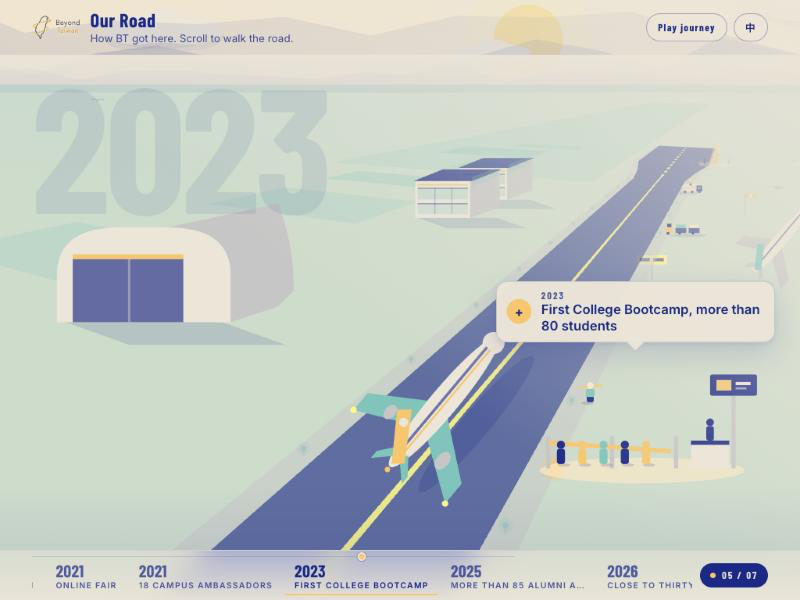
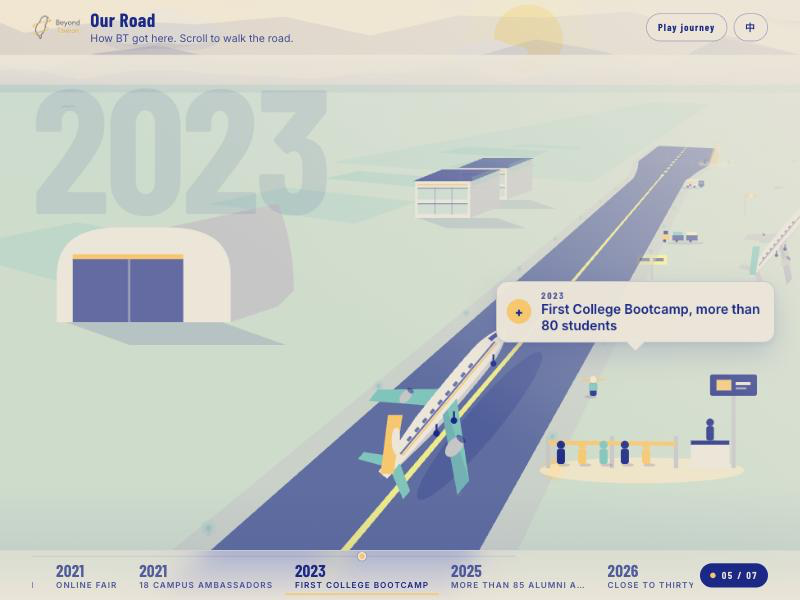
docs: 歷史之路批 4 第二輪收尾。README 補「同一天第二輪」、計畫文件補三件打勾、重拍 page-17、18、19、22

diff --git a/docs/2026-11-05-BT-歷史之路計畫.md b/docs/2026-11-05-BT-歷史之路計畫.md
@@ -233,3 +233,10 @@ Paul 看完批 3 說還不錯，接著要把主題換成機場，因為它跟 BT
   | `/history/` 批 4 | 82 / 86 | 100 | 3540ms / 1804ms | 3713ms / 3792ms | 左上的大年份 | 810ms / 66ms | 1929ms / 543ms | 0.001 | 305KB |
 
   模擬的 LCP 跟批 3（3683 / 3702）一樣，原因同批 3 最下面那一段。LCP 元素變成大年份是因為批 3 收尾把它改回文字（Paul 接受）。第一輪觀測偏高是 Chrome 冷開。SVG 字串橫式 66,188、直式 58,751（七站），上限 70 KB。
+
+Paul 看過批 4 之後要修的三件（2026-11-06，同一天第二輪）：
+- [x] 飛機看起來像衝浪板：重畫成客機（圓機頭、收細的尾錐、一排窗、駕駛艙窗、後掠的機翼、翼下兩具引擎、水平尾翼、橘色垂直尾翼帶一片奶油色的台灣、起落架在地上看得到、離地就收），影子是分開的貼圖，離地後留在地上縮小變淡。停機坪的四分之三視角、爬升的視角、手機都看過。測試「飛機（批 4 修正）」照零件的 class 數。順手抓到一個會讓尾翼變黑的錯：同一個元素寫了兩次 class，瀏覽器只認第一個；測試現在也擋整個場景裡的重複 class。
+- [x] 空橋換鏡那一幀糊成一團：改成室內先淡出並往左上滑走（0.36 到 0.385），室外再縮進來（0.375 到 0.40），只重疊一小段。測試：0.35 到 0.41 每千分之一掃一次，兩邊不會同時超過 0.5，兩條曲線都單調。
+- [x] 起飛的地平線一片白：地面的霧改成從地平線往下很快變淡、帶一點沙色，草地與跑道留住顏色；離地之後能看到的距離從 3800 拉到 6800，跑道一路收細退遠；天空多一層到高空藍的漸層（深藍到青到奶油），黃昏那一層與地平線那條白帶隨離地淡掉。
+- 重拍 page-17、18、19 與 page-22（手機停機坪），檔名不變。SVG 橫式 63,657、直式 56,171。
+
